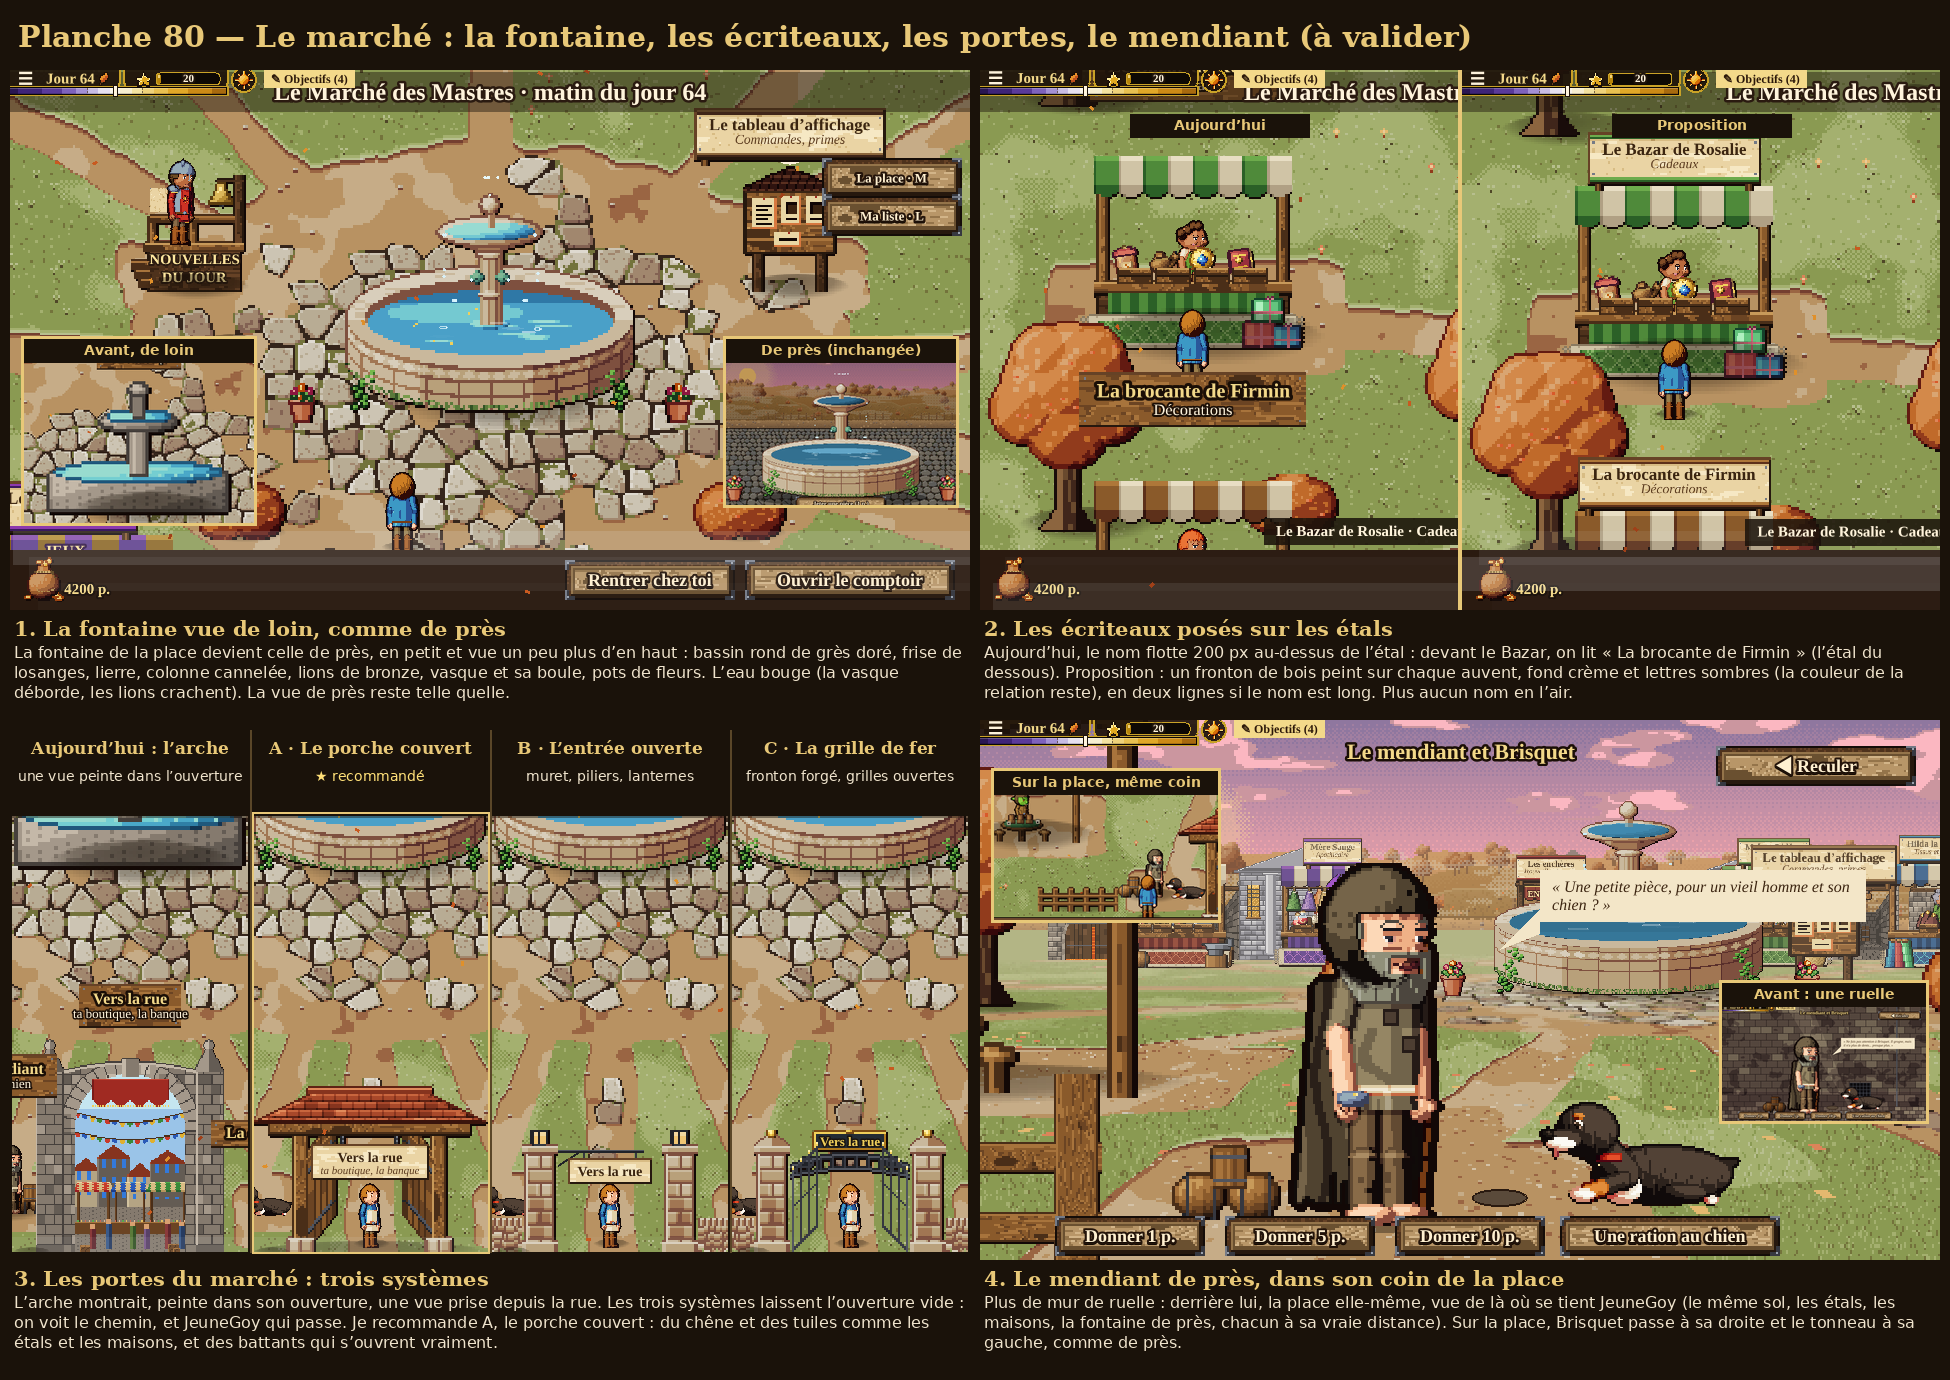
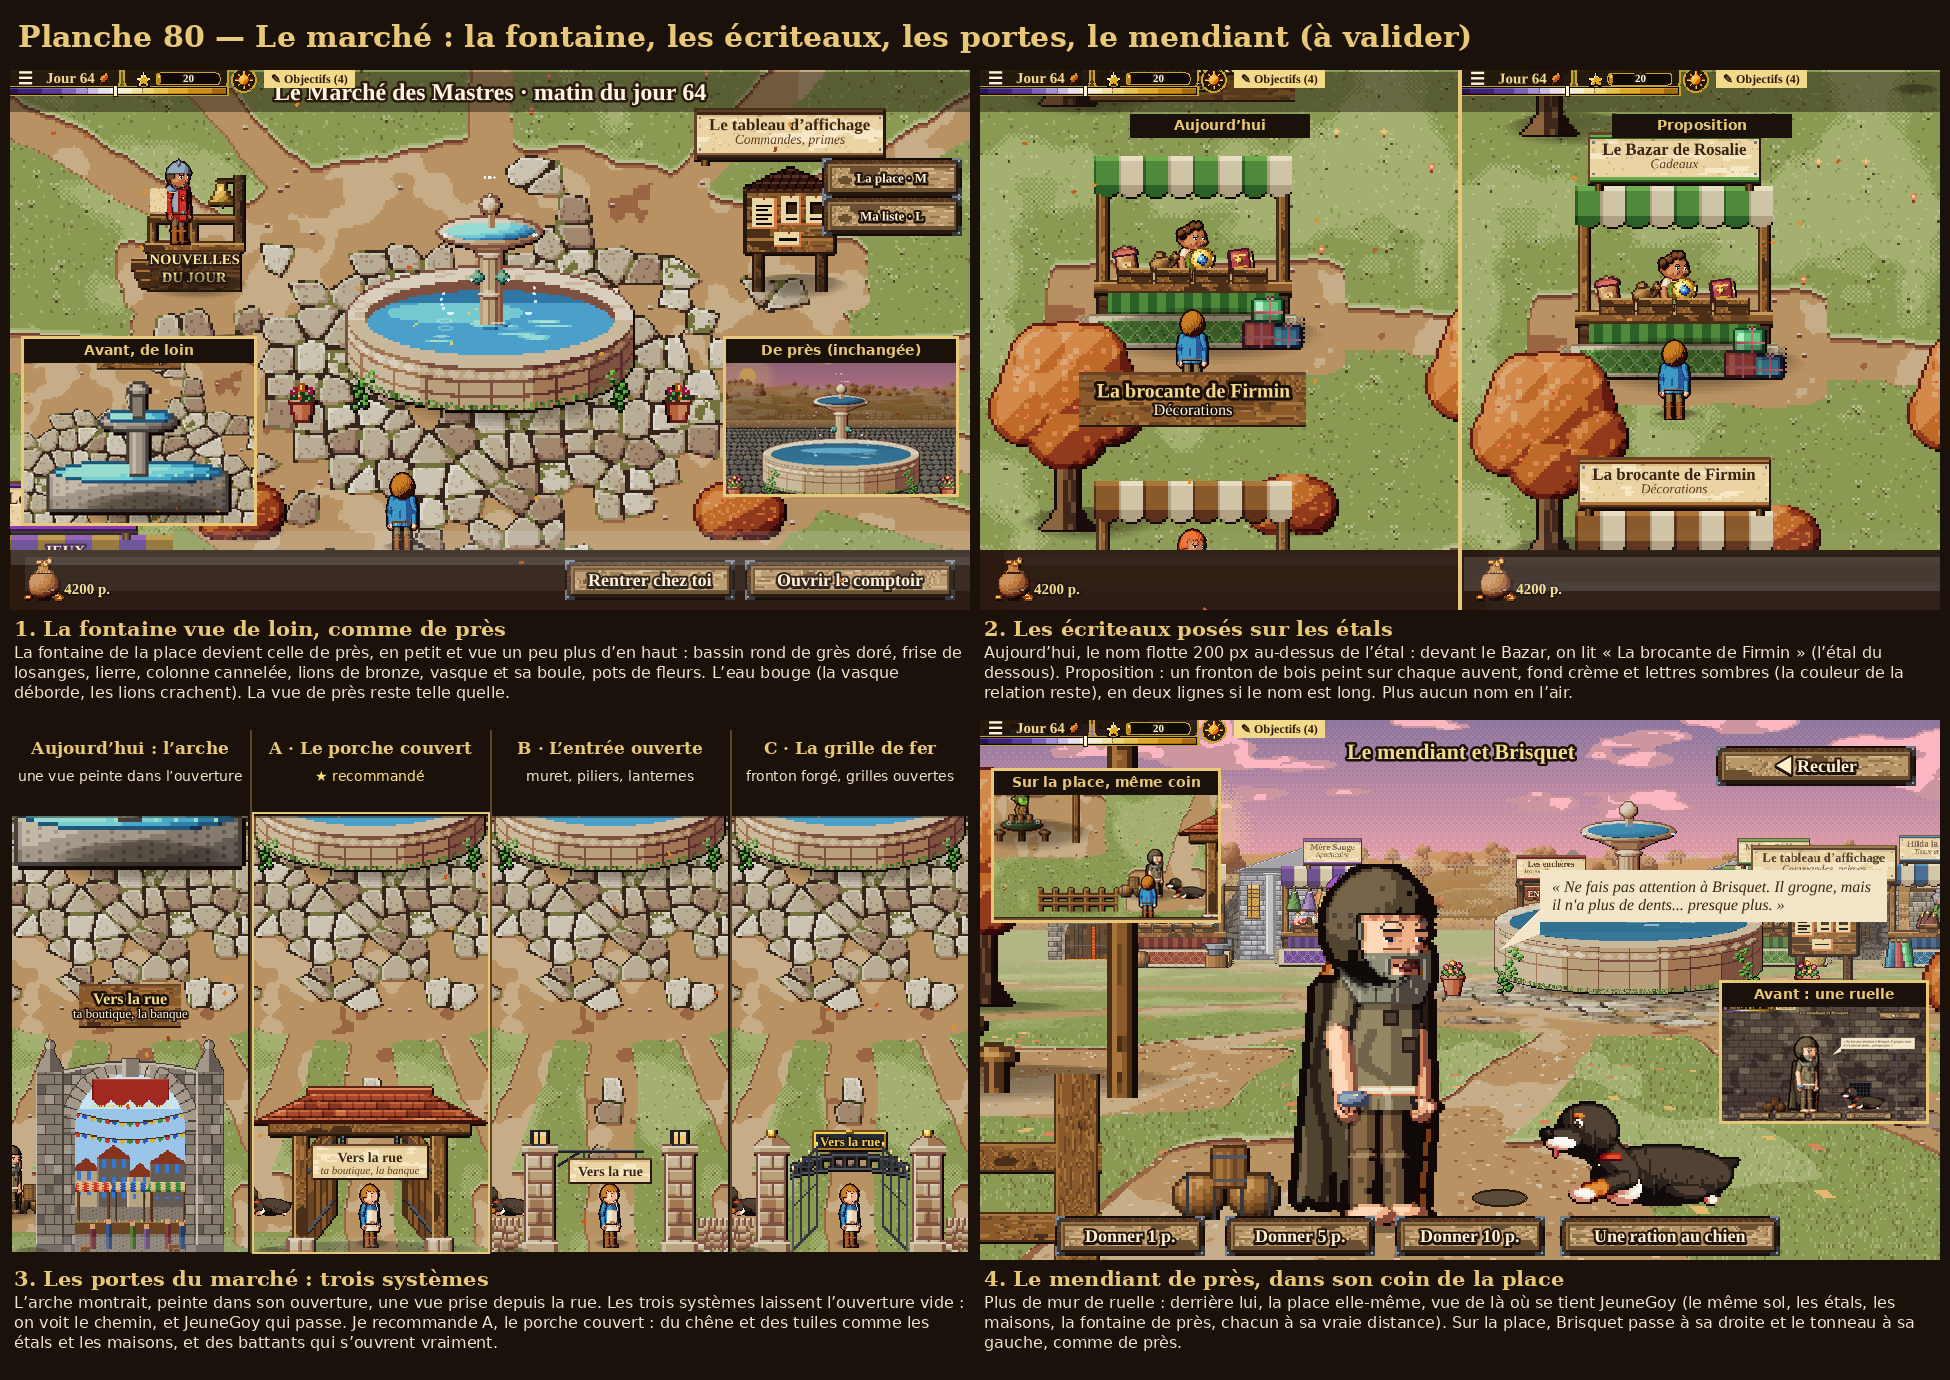
Housekeep v1.61 : marché et rue (relecture)
- les clics sur la place comptent en coordonnées du monde : sur un grand écran, JeuneGoy partait
  ailleurs et la moitié basse de la place ne répondait pas
- cliquer sur un lieu devant lequel on est ne referme plus aussitôt son panneau
- le texte des boutons déplacés (« Partir ») ne saute plus au survol
- la grille des chemins est refaite chaque jour (les charrettes du jour de marché)
- une touche maintenue n'agit qu'une fois ; un passant ne reste plus figé 20 s
- la personne du banc regarde là où elle marche
- planche 80 : le marché (version finale, à valider)

Claude-Session: https://claude.ai/code/session_018kbaP56NxxNMUzmj9EfKBC

diff --git a/src/scenes/MarchePlace.js b/src/scenes/MarchePlace.js
@@ -67,7 +67,7 @@ Object.assign(MarcheScene.prototype, {
     const chemins = [...pads.map(([x, y]) => [[450, 318], [x, y]]), [[450, 318], [450, 520], 12], [[450, 318], [900, 382], 8], [[0, 92], [900, 92], 11]];
     const plan = { centre: [450, 318], rTerre: 150, rDalles: 104, pads, chemins, largeur: 8, pas: [[450, 432], [452, 452], [448, 472], [451, 492]] };
     place.add(this.add.image(0, 0, solPlaceHD(this, 'solPlace_' + saison, pal, 900, 520, plan)).setOrigin(0).setScale(2));
-    this.obstacles = [];
+    this.obstacles = []; this.grillePlace = null;   // (v1.61 : les charrettes du jour de marché changent la grille)
     const ombre = (x, y, l) => { const o = this.add.image(x + l * 0.06, y - 2, ombrePlaceHD(this)).setScale(l / 64, l / 64 * 0.9); o.yTri = y - 0.5; place.add(o); return o; };
     this.ombrePlace = ombre;
     // les maisons qui bordent la place, au nord
@@ -169,7 +169,7 @@ Object.assign(MarcheScene.prototype, {
       this.touches = k.createCursorKeys();
       this.zqsd = k.addKeys('Z,Q,S,D,W,A', false);
       k.on('keydown', e => {
-        if (!this.place || !this.sys.isActive()) return;
+        if (!this.place || !this.sys.isActive() || e.repeat) return;   // (v1.61 : une touche maintenue n'agit qu'une fois)
         if (this.boutiqueC || this.listeC) return;
         if (e.key === 'm' || e.key === 'M') this.basculerCartePlace();
         else if (e.key === 'l' || e.key === 'L') { if (!this.bloquePlace()) this.listeCourses(); }
@@ -178,21 +178,24 @@ Object.assign(MarcheScene.prototype, {
       });
     }
     const dansPlace = o => { for (let c = o; c; c = c.parentContainer) if (c === place) return true; return false; };
+    // (v1.61) les coordonnées du monde (960 × 540) : sur un grand écran, p.x et p.y comptent en pixels réels
     this.input.on('pointerdown', (p, sous) => {
-      if (!this.place || p.y < 40 || p.y > 476) return;
+      const px = p.worldX, py = p.worldY;
+      if (!this.place || py < 40 || py > 476) return;
       const surInterface = sous.some(o => !dansPlace(o));
       // (v1.61) un lieu ouvert : un clic n'importe où sur la place au-dessus du cadre (même sur un passant ou une bulle) le referme
-      if (this.panneauOuvert && !this.vitrineOuverte && !this.boutiqueC && !this.listeC && !this.carteC && !this.jeuLance && p.y < 300 && !surInterface) { this.vueEnsemble(); return; }
+      if (this.panneauOuvert && !this.vitrineOuverte && !this.boutiqueC && !this.listeC && !this.carteC && !this.jeuLance && py < 300 && !surInterface) { this.vueEnsemble(); return; }
       if (sous.length || this.bloquePlace()) return;
-      this.partirVers((p.x - place.x) / place.scaleX, (p.y - place.y) / place.scaleY);
-      this.marqueClic((p.x - place.x) / place.scaleX, (p.y - place.y) / place.scaleY);
+      this.partirVers((px - place.x) / place.scaleX, (py - place.y) / place.scaleY);
+      this.marqueClic((px - place.x) / place.scaleX, (py - place.y) / place.scaleY);
     });
     // (v1.61) à la souris : bouton gardé enfoncé, JeuneGoy suit le pointeur (comme avec ZQSD)
     this.input.on('pointermove', p => {
-      if (!this.place || !p.isDown || p.y < 40 || p.y > 476 || this.bloquePlace() || this.apresMarche) return;
+      const px = p.worldX, py = p.worldY;
+      if (!this.place || !p.isDown || !(p.event && p.event.buttons & 1) || py < 40 || py > 476 || this.bloquePlace() || this.apresMarche) return;
       if (this.time.now - (this.dernierGlisse || 0) < 120) return;
       this.dernierGlisse = this.time.now;
-      this.partirVers((p.x - place.x) / place.scaleX, (p.y - place.y) / place.scaleY);
+      this.partirVers((px - place.x) / place.scaleX, (py - place.y) / place.scaleY);
     });
     this.cadrerPlace(true);
   },
@@ -410,7 +413,7 @@ Object.assign(MarcheScene.prototype, {
   allerVersLieu(cle, courir = false) {
     if (!this.place || this.bloquePlace()) return;
     const [x, y] = this.devantLieu(cle);
-    if (Math.hypot(this.heros.x - x, this.heros.y - y) < 40) return this.agirLieu(cle);
+    if (Math.hypot(this.heros.x - x, this.heros.y - y) < 40) return this.time.delayedCall(0, () => this.agirLieu(cle));   // (v1.61 : sinon le clic de la scène refermait aussitôt le panneau)
     this.partirVers(x, y, cle, courir || Math.hypot(this.heros.x - x, this.heros.y - y) > 600);
   },
 
@@ -546,7 +549,7 @@ Object.assign(MarcheScene.prototype, {
     // les passants (v1.61 : ils suivent leur chemin, pas à pas, et vivent leur petite vie)
     for (const o of this.passantsPlace) {
       if (o.bulle && o.bulle.active) o.bulle.setPosition(o.img.x, o.img.y - o.img.displayHeight - 8);
-      if (o.attend && !(o.attend.but && o.attend.but.q === o)) o.attend = null;   // (celui qu'il attendait a changé d'avis)
+      if (o.attend && !(o.attend.but && o.attend.but.q === o)) { o.attend = null; o.pause = Math.min(o.pause, 600); }   // (celui qu'il attendait a changé d'avis : il ne reste pas figé 20 s)
       if (o.parle || o.attend) continue;
       if (o.pause > 0) { o.pause -= dt; if (o.pause <= 0) this.envieDePassant(o); continue; }
       if (!o.cible) { o.pause = 1200; continue; }

diff --git a/src/scenes/RueScene.js b/src/scenes/RueScene.js
@@ -136,11 +136,11 @@ class RueScene extends Phaser.Scene {
     const quoi = { nom: auHasard(NOMS_PASSANTS_RUE) + ' ' + Math.floor(Math.random() * 99), race, niveau: auHasard(['novice', 'aguerri']), feminin: Math.random() < 0.5 };
     // (v1.61) il arrive à pied par un bord de l'écran, puis s'assoit (il n'apparaît plus d'un coup sur le banc)
     const xb = this.banc.x + (Math.random() < 0.5 ? -22 : 22), cam = this.cameras.main.scrollX, deGauche = Math.random() < 0.5;
-    const x0 = deGauche ? cam - 60 : cam + 1020, duree = Math.abs(xb - x0) * 11;
-    const venu = imageCorps(this, x0, SOL_PROMENADE + 6, quoi, 7.2).setFlipX(!deGauche).setDepth(8.45);
+    const x0 = deGauche ? cam - 60 : cam + 1020, duree = Math.abs(xb - x0) * 11, versDroite = xb > x0;   // (il regarde là où il va)
+    const venu = imageCorps(this, x0, SOL_PROMENADE + 6, quoi, 7.2).setFlipX(!versDroite).setDepth(8.45);
     this.surLeBanc = venu; venu.enRoute = true; venu.quoi = quoi;   // (la place est prise dès qu'il est en route)
     pasDeMarche(this, venu, duree, { poussiere: false });
-    this.tweens.add({ targets: venu, x: xb, duration: duree, onComplete: () => { if (!venu.active) return; venu.destroy(); this.asseoirSurLeBanc(quoi, xb, deGauche); } });
+    this.tweens.add({ targets: venu, x: xb, duration: duree, onComplete: () => { if (!venu.active) return; venu.destroy(); this.asseoirSurLeBanc(quoi, xb, versDroite); } });
   }
   asseoirSurLeBanc(quoi, xb, deGauche) {
     const p = this.surLeBanc = imageCorps(this, xb, this.banc.sol - 6, quoi, 7.2, 'assis').setDepth(8.44).setFlipX(!deGauche).setInteractive({ useHandCursor: true });

diff --git a/src/pixels.js b/src/pixels.js
@@ -558,9 +558,9 @@ function creerBouton(scene, x, y, largeur, texte, action) {
   const repos = () => {
     if (!fond.active) return;
     fond.setTexture(survol && actif ? cle + '_clair' : cle);
-    label.setY(y);
+    label.setY(fond.y);   // (v1.61 : la place actuelle du bouton, s'il a été déplacé)
   };
-  const habiller = (forcerUne = false) => { plaque(forcerUne); tenir(); label.setX(x + decal); repos(); };
+  const habiller = (forcerUne = false) => { plaque(forcerUne); tenir(); label.setX(fond.x + decal); repos(); };
   habiller();
   if (rang >= 4) label.setColor('#fff0c8');
   fond.on('pointerover', () => { survol = true; repos(); });
@@ -569,7 +569,7 @@ function creerBouton(scene, x, y, largeur, texte, action) {
     if (!actif) return;
     Son.jouer('clic');
     fond.setTexture(cle + '_enfonce');
-    label.setY(y + 2);
+    label.setY(fond.y + 2);
     scene.time.delayedCall(110, repos);
     if (window.noterJournal) noterJournal(`[${scene.scene.key}] « ${label.text} »`);   // (v0.95 : le journal de bord)
     action();
